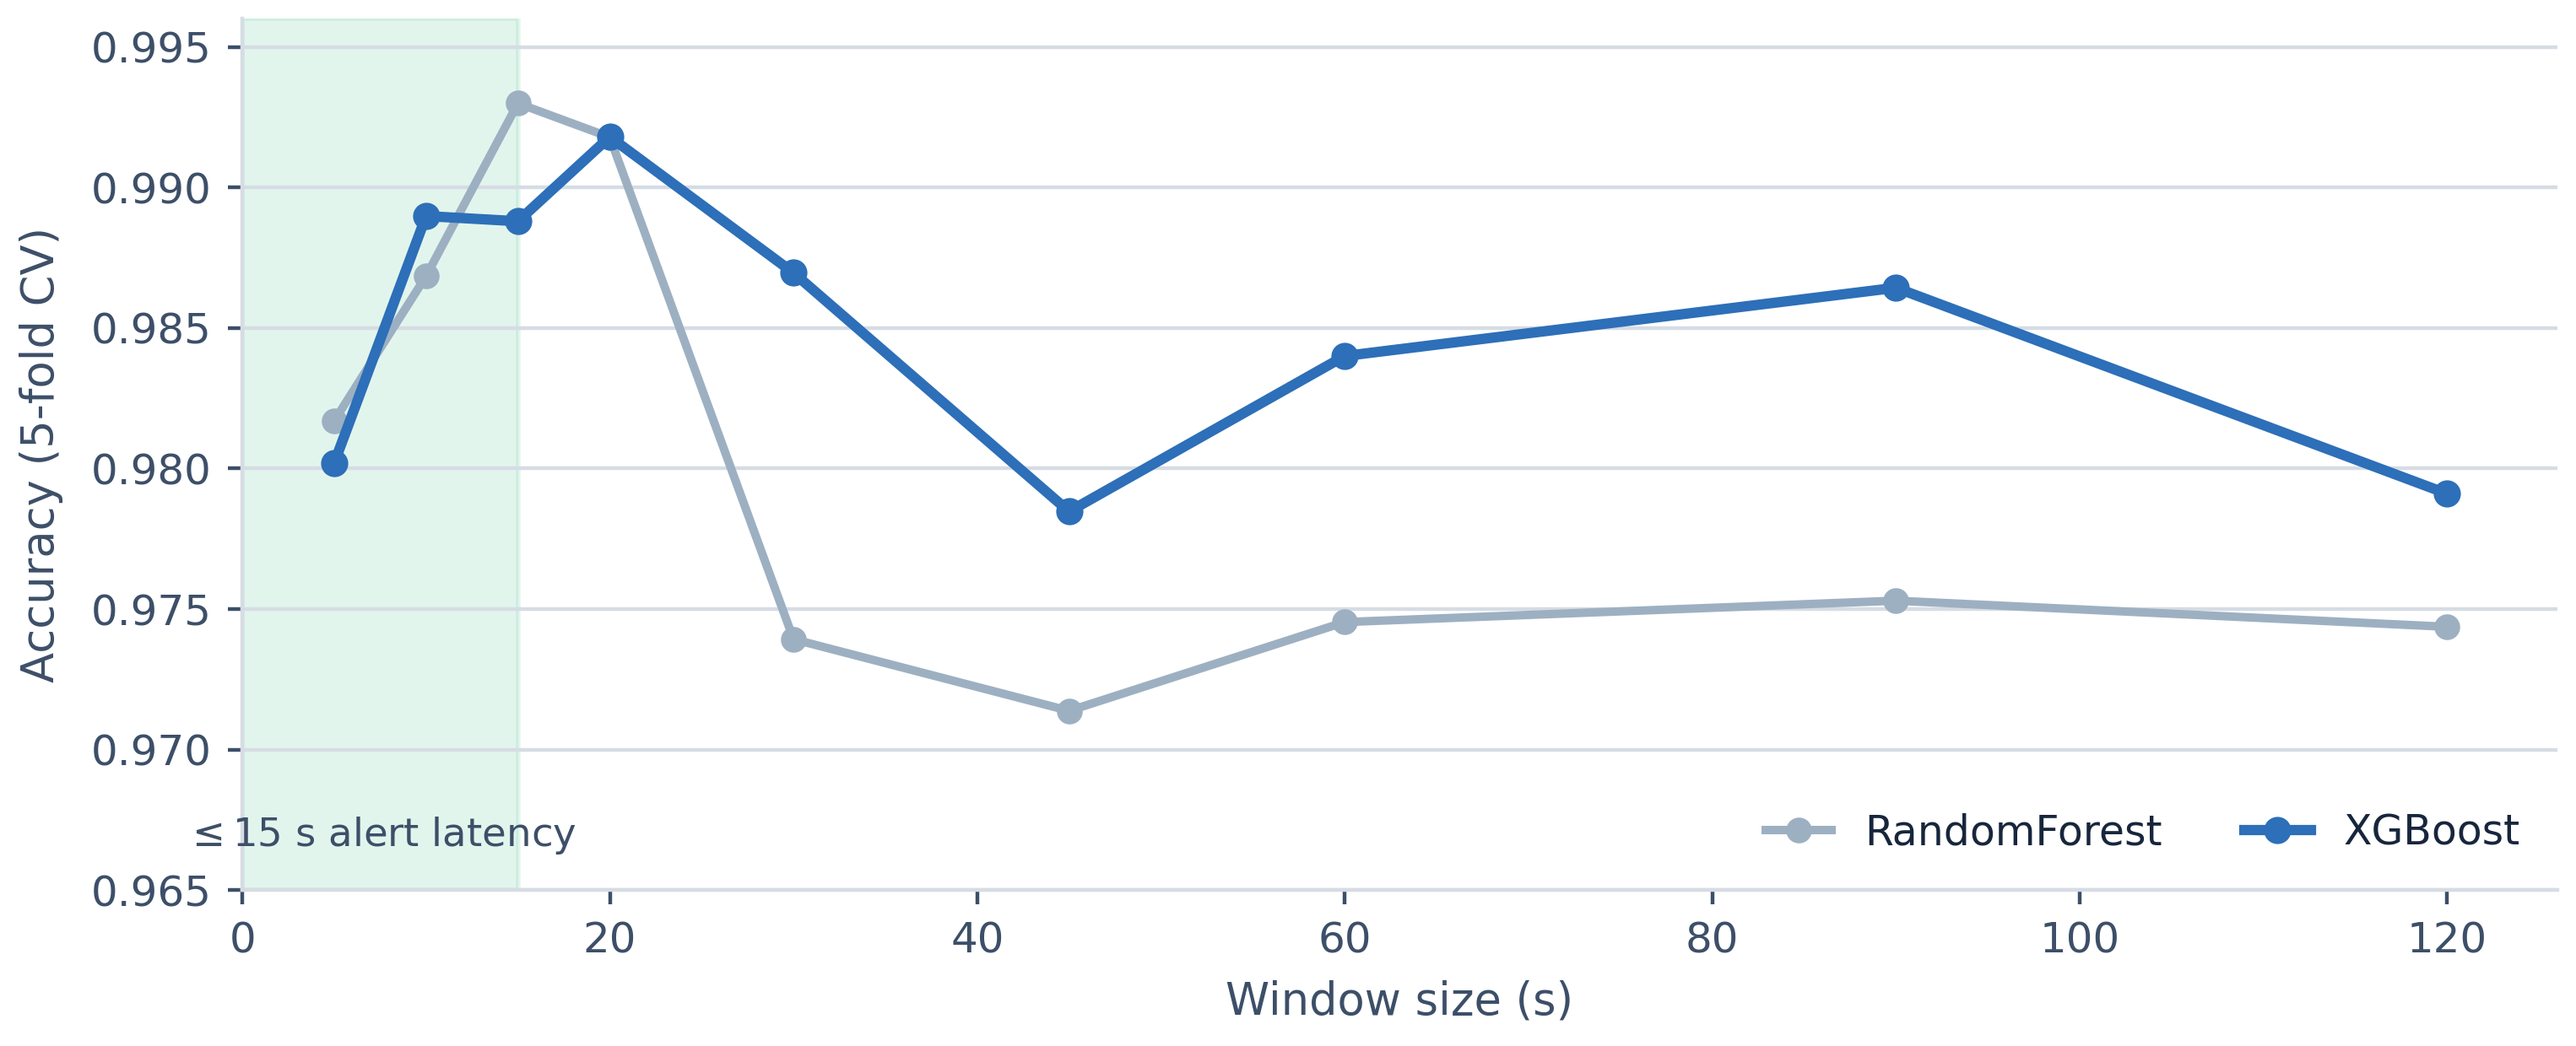
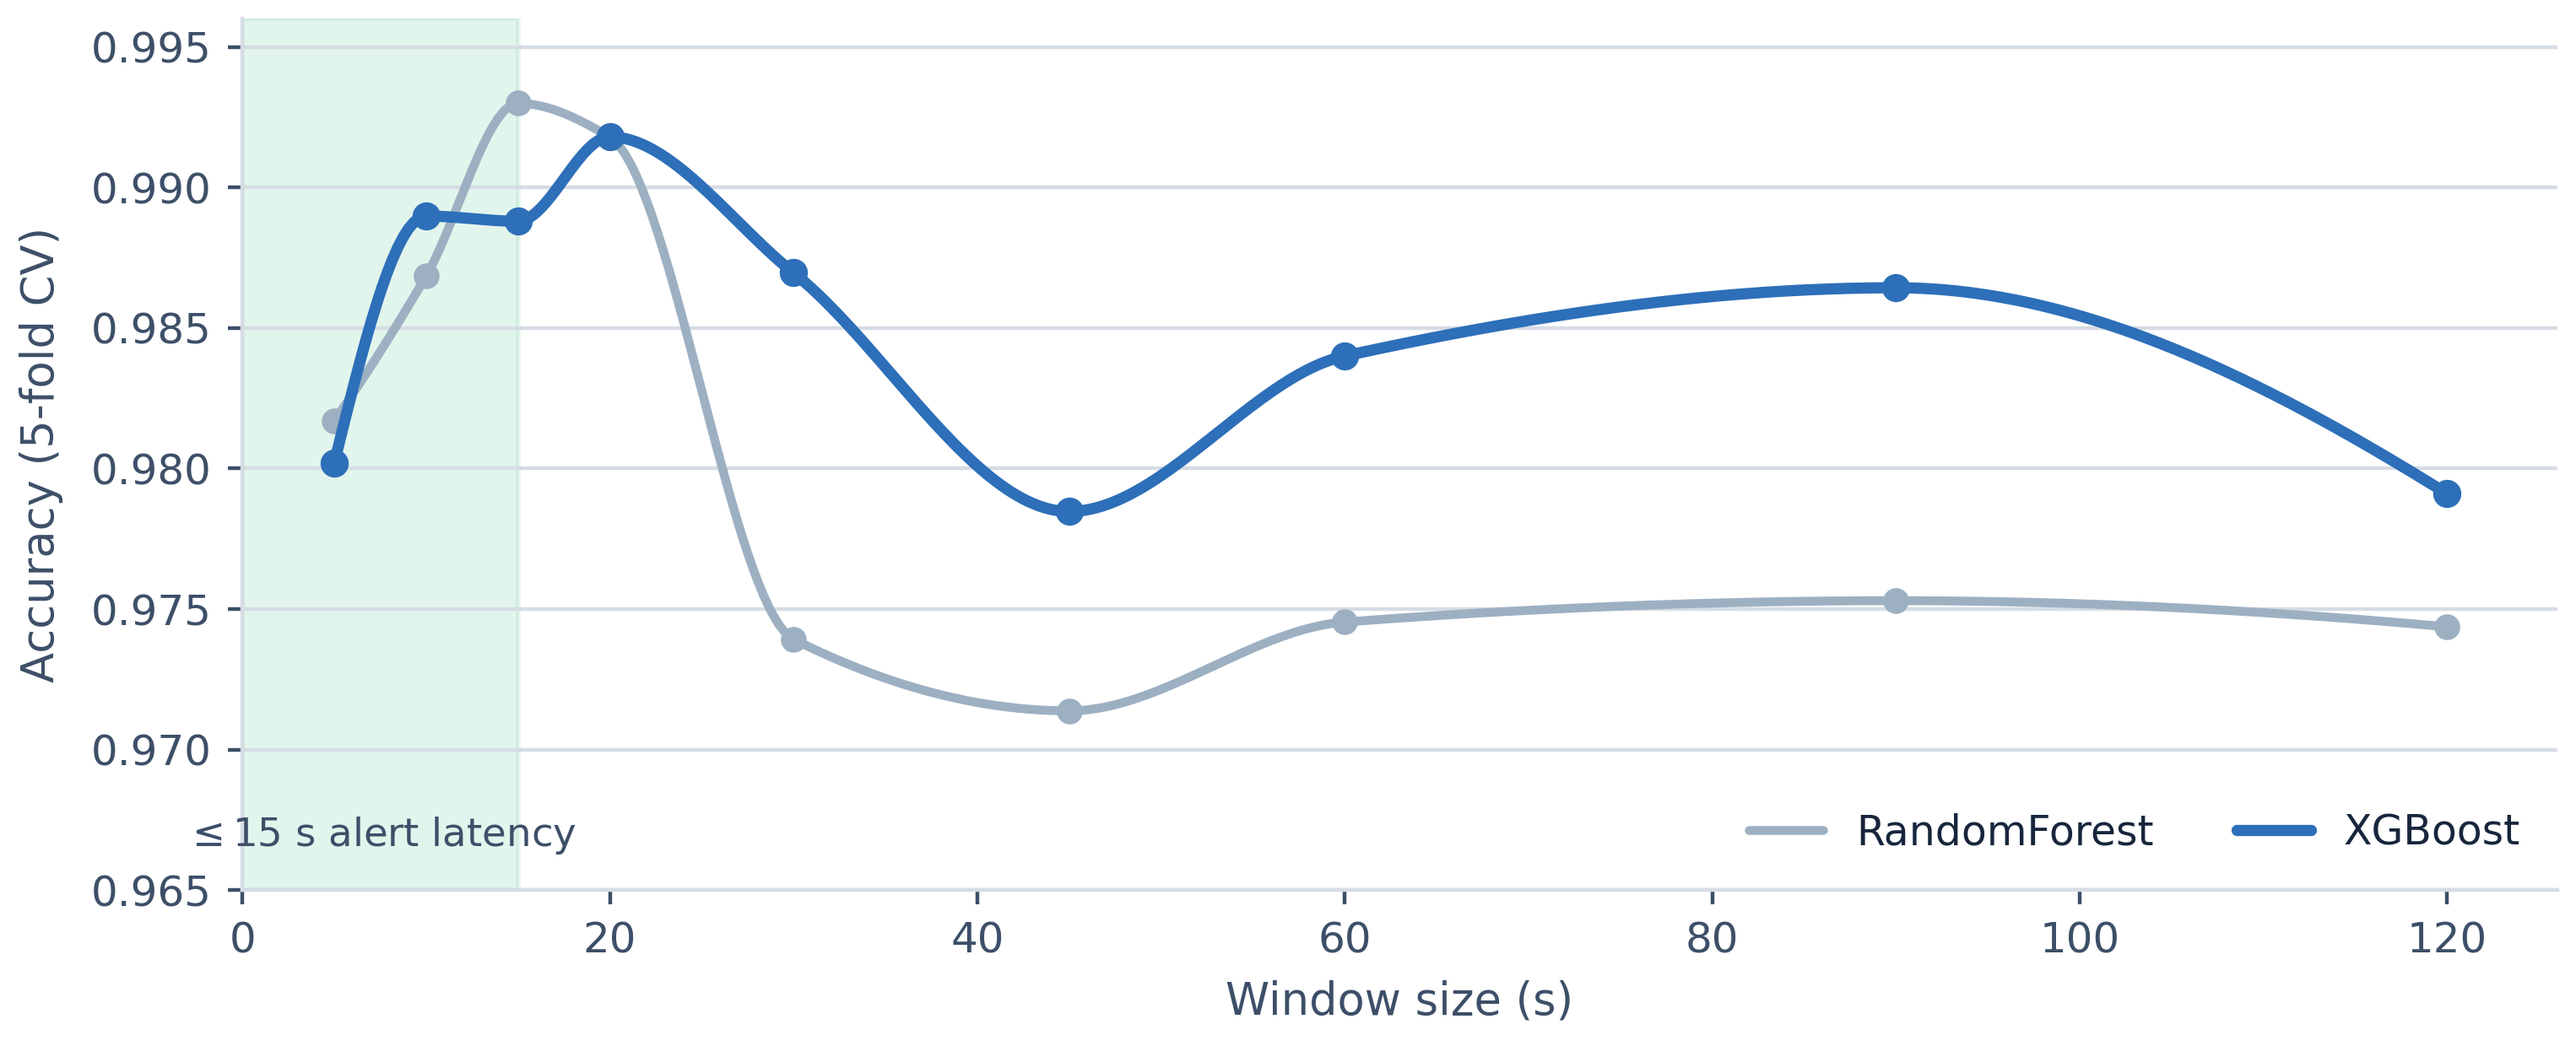
Poster line chart: PCHIP-smoothed curves instead of straight segments
The straight segments read as jagged at poster scale. PCHIP rather than a
cubic spline on purpose: it is shape-preserving, so the curve never overshoots
between knots and cannot imply an accuracy higher or lower than anything
measured. RandomForest's peak stays exactly at its measured 15 s value of
99.30%. Markers remain on the nine measured window sizes so the interpolation
is not mistaken for data.

diff --git a/scripts/poster_charts.py b/scripts/poster_charts.py
@@ -27,6 +27,8 @@ matplotlib.rcParams["ps.fonttype"] = 42
 matplotlib.rcParams["font.family"] = "DejaVu Sans"
 import matplotlib.pyplot as plt
 from matplotlib.patches import Patch
+import numpy as np
+from scipy.interpolate import PchipInterpolator
 
 RES = Path("docs/camera_ready_results_20261022")
 INK, MUTED, GRID = "#17263c", "#3d4f68", "#d6dce4"
@@ -90,14 +92,25 @@ def line_chart(out):
     wx, xgb = rows("paper_figure3_job_id_xgb.json")
     wr, rf = rows("paper_figure3_job_id.json")
 
+    # Smooth with PCHIP rather than a cubic spline. PCHIP is shape-preserving:
+    # it will not overshoot between knots, so the curve never implies an
+    # accuracy higher (or lower) than anything actually measured. Markers stay
+    # on the nine measured sizes so the curve is not mistaken for data.
+    def smooth(x, y):
+        xs = np.linspace(min(x), max(x), 400)
+        return xs, PchipInterpolator(np.asarray(x, float), np.asarray(y, float))(xs)
+
     fig, ax = plt.subplots(figsize=(7.63, 3.10))
     ax.axvspan(0, 15, color=MINT, alpha=0.18, zorder=0)
     ax.text(7.5, 96.62, "$\\leq$15 s alert latency", fontsize=8.4,
             color=MUTED, ha="center", va="bottom")
-    ax.plot(wr, rf, marker="o", ms=4.5, lw=1.8, color="#9db0c2",
-            label="RandomForest", zorder=3)
-    ax.plot(wx, xgb, marker="o", ms=4.8, lw=2.2, color=BLUE,
-            label="XGBoost", zorder=4)
+    sr = smooth(wr, rf); sx = smooth(wx, xgb)
+    ax.plot(*sr, lw=1.9, color="#9db0c2", label="RandomForest", zorder=3,
+            solid_capstyle="round")
+    ax.plot(wr, rf, ls="none", marker="o", ms=4.5, color="#9db0c2", zorder=3)
+    ax.plot(*sx, lw=2.4, color=BLUE, label="XGBoost", zorder=4,
+            solid_capstyle="round")
+    ax.plot(wx, xgb, ls="none", marker="o", ms=5.0, color=BLUE, zorder=5)
     ax.set_xlim(0, 126); ax.set_ylim(96.5, 99.6)
     ax.set_xticks([0, 20, 40, 60, 80, 100, 120])
     ax.set_yticks([96.5, 97.0, 97.5, 98.0, 98.5, 99.0, 99.5])
@@ -109,8 +122,9 @@ def line_chart(out):
     for s in ("top", "right"): ax.spines[s].set_visible(False)
     for s in ("left", "bottom"): ax.spines[s].set_color(GRID)
     ax.yaxis.grid(True, color=GRID, lw=0.8, zorder=0); ax.set_axisbelow(True)
-    ax.legend(fontsize=8.8, frameon=False, loc="lower right", labelcolor=INK,
-              ncol=2, handlelength=1.6)
+    h, l = ax.get_legend_handles_labels()
+    ax.legend(h, l, fontsize=8.8, frameon=False, loc="lower right",
+              labelcolor=INK, ncol=2, handlelength=1.8)
     fig.tight_layout(pad=0.4)
     fig.savefig(out / "poster_window_accuracy.png", dpi=400, transparent=True)
     plt.close(fig)
